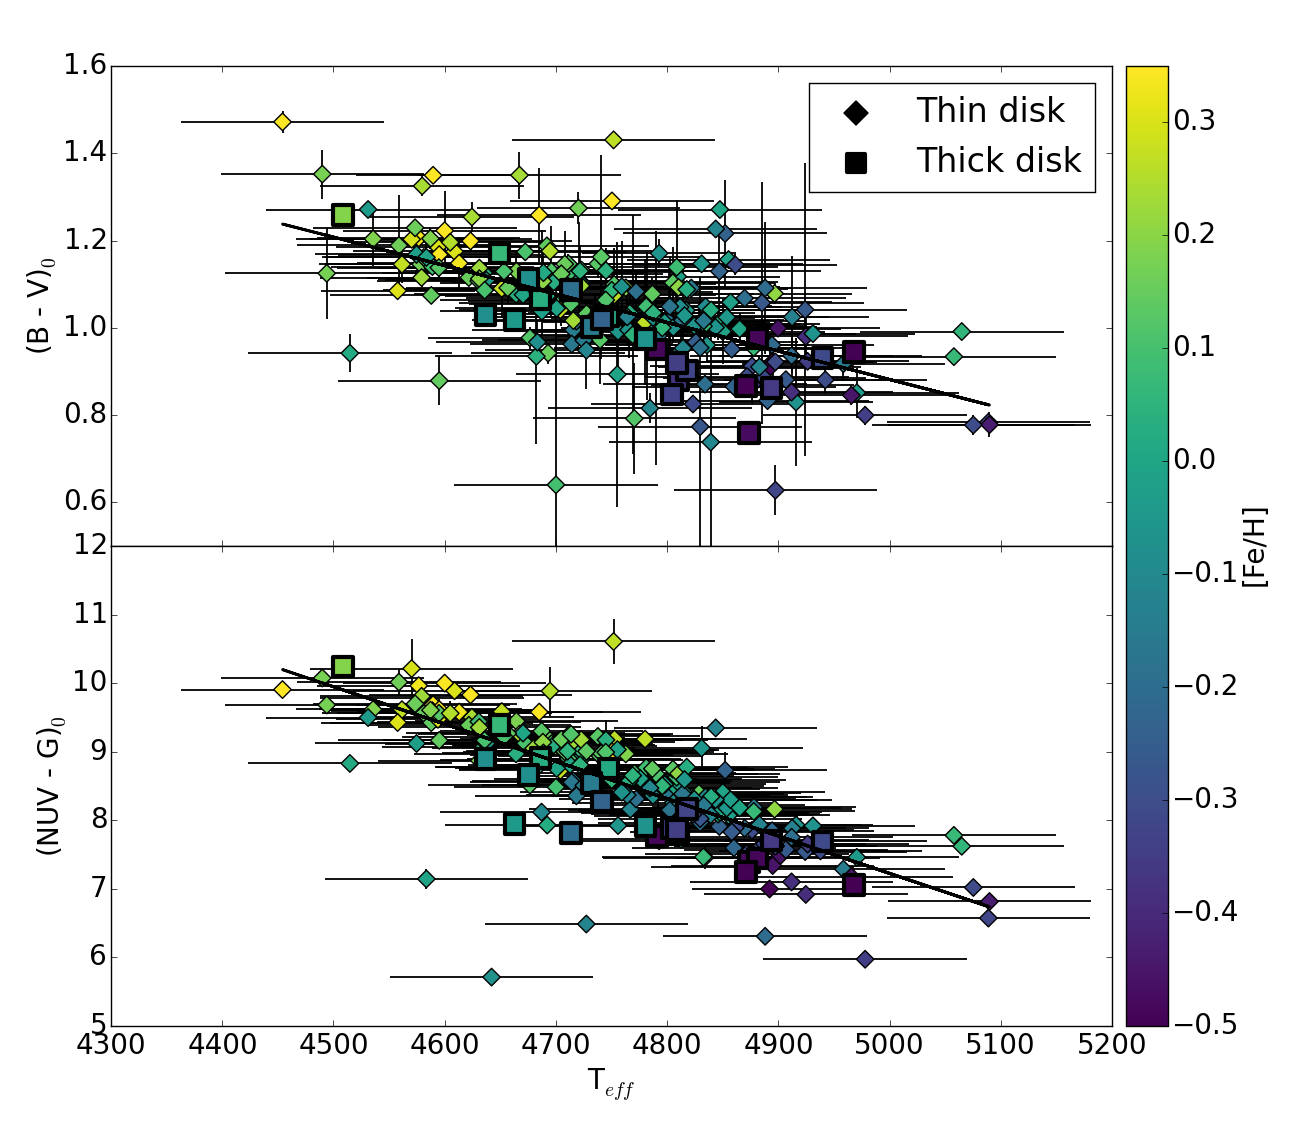
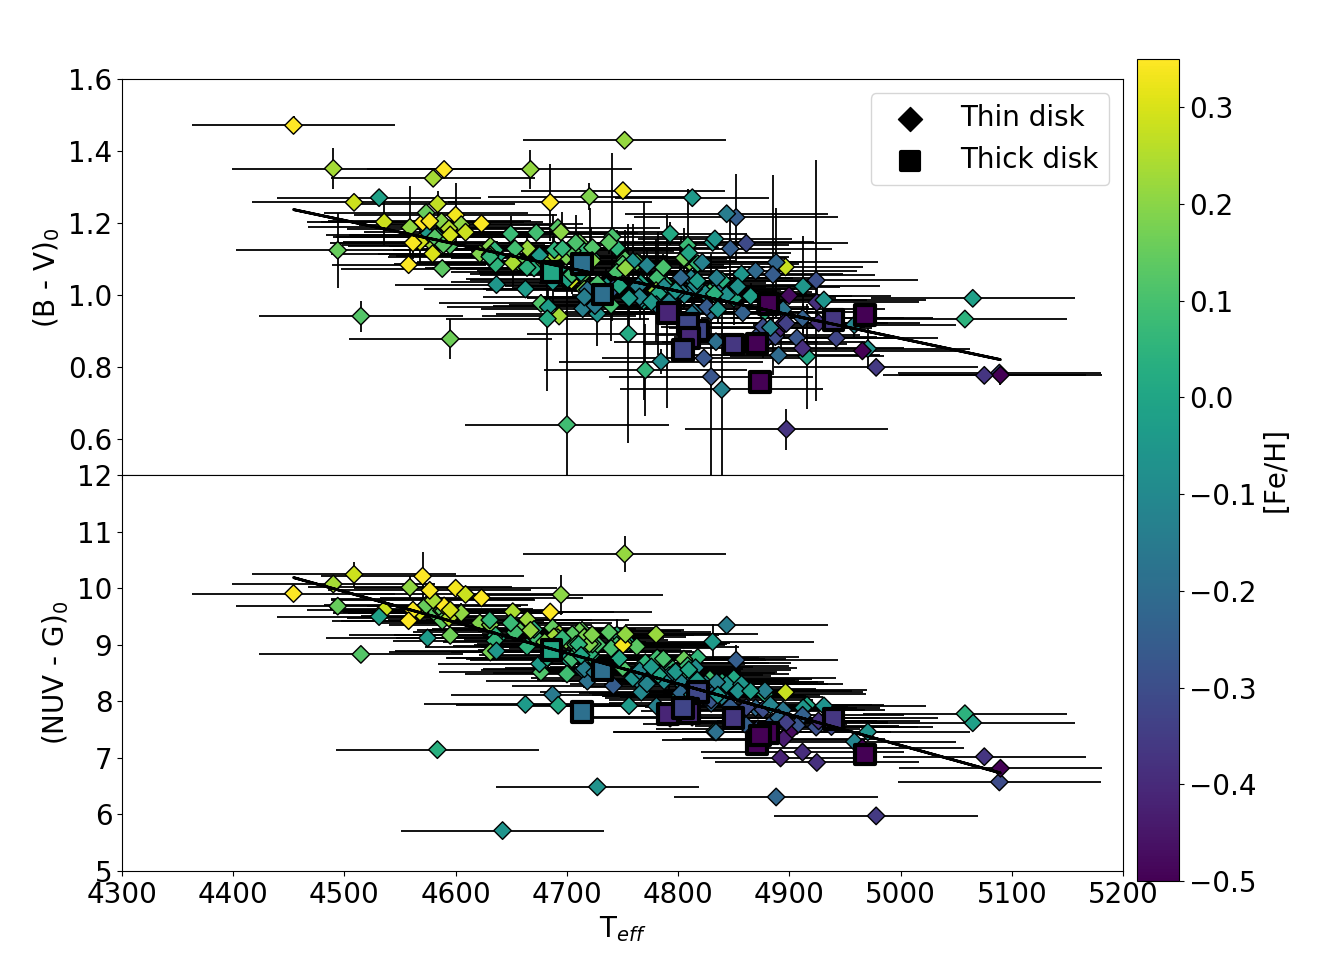
new plots new plots rest of 4panel plots:wq

diff --git a/pipeline/misc.py b/pipeline/misc.py
@@ -1748,14 +1748,14 @@ line2 = m2*x + b2
 err2 = np.sqrt(np.sum((line2-y2)**2/len(y2)))
 
 fig, (ax1, ax2) = plt.subplots(2, 1)
-cmap = ax1.scatter(rc['TEFF'][thin], ((rc['B_apass']-rc['ebv']*3.626)-(rc['V_apass']-rc['ebv']*2.742))[thin], s=80, c=rc['FE_H'][thin], cmap=viridis, vmin=-.5, vmax=.35, marker='D', label='Thin disk')
+cmap = ax1.scatter(rc['TEFF'][thin], ((rc['B_apass']-rc['ebv']*3.626)-(rc['V_apass']-rc['ebv']*2.742))[thin], s=80, c=rc['FE_H'][thin], cmap=viridis, vmin=-.5, vmax=.35, marker='D', label='Thin disk', edgecolor='black')
 ax1.scatter(rc['TEFF'][thick], ((rc['B_apass']-rc['ebv']*3.626)-(rc['V_apass']-rc['ebv']*2.742))[thick], s=200, c=rc['FE_H'][thick], cmap=viridis, vmin=-.5, vmax=.35, marker='s', label='Thick disk', edgecolor='black', linewidth=3)
 ax1.errorbar(rc['TEFF'][thin], ((rc['B_apass']-rc['ebv']*3.626)-(rc['V_apass']-rc['ebv']*2.742))[thin], xerr=rc['TEFF_ERR'][thin], yerr=(rc['Berr_apass']-rc['Verr_apass'])[thin], ecolor='black', fmt=None, marker=None, mew=0, elinewidth=1.3, **{"zorder":0})
 
 ax1.plot(x, line1, linewidth=2, c='black', zorder=10)
 
-ax2.scatter(rc['TEFF'][thin], ((rc['nuv_mag']-rc['ebv']*7.24)-(rc['phot_g_mean_mag']-rc['ebv']*3.303))[thin], s=80, c=rc['FE_H'][thin], cmap=viridis, vmin=-.5, vmax=.35, marker='D')
-ax2.scatter(rc['TEFF'][thick], ((rc['nuv_mag']-rc['ebv']*7.24)-(rc['phot_g_mean_mag']-rc['ebv']*3.303))[thick], s=200, c=rc['FE_H'][thick], cmap=viridis, vmin=-.5, vmax=.35, marker='s', linewidth=3)
+ax2.scatter(rc['TEFF'][thin], ((rc['nuv_mag']-rc['ebv']*7.24)-(rc['phot_g_mean_mag']-rc['ebv']*3.303))[thin], s=80, c=rc['FE_H'][thin], cmap=viridis, vmin=-.5, vmax=.35, marker='D', edgecolor='black')
+ax2.scatter(rc['TEFF'][thick], ((rc['nuv_mag']-rc['ebv']*7.24)-(rc['phot_g_mean_mag']-rc['ebv']*3.303))[thick], s=200, c=rc['FE_H'][thick], cmap=viridis, vmin=-.5, vmax=.35, marker='s', edgecolor='black', linewidth=3)
 ax2.errorbar(rc['TEFF'][thin], ((rc['nuv_mag']-rc['ebv']*7.24)-(rc['phot_g_mean_mag']-rc['ebv']*3.303))[thin], xerr=rc['TEFF_ERR'][thin], yerr=(rc['nuv_magerr']-rc['Gerr'])[thin], ecolor='black', fmt=None, marker=None, mew=0, elinewidth=1.3, **{"zorder":0})
 
 ax2.plot(x, line2, linewidth=2, c='black', zorder=10)
@@ -1961,14 +1961,14 @@ leg.legendHandles[1]._sizes = [150]
 fig.subplots_adjust(wspace=0)
 fig.subplots_adjust(right=.84)
 cbar_ax = fig.add_axes([0.85, 0.1, 0.03, 0.8])
-ax1.annotate('[Fe/H] = 0.17 * (NUV-G) - 1.55', xy=(5.1, 0.43), color='red', size=15)
-ax1.annotate('[Fe/H] = 0.18 * (NUV-G) - 1.63 ', xy=(5.1, 0.47), color='black', size=15)
-ax2.annotate('[Fe/H] = 0.20 * (NUV-G)$_0$ - 1.75', xy=(5.1, 0.43), color='red', size=15)
-ax2.annotate('[Fe/H] = 0.23 * (NUV-G)$_0$ - 1.99', xy=(5.1, 0.47), color='black', size=15)
+ax1.annotate('[Fe/H] = 0.18 * (NUV-G) - 1.61', xy=(5.1, 0.43), color='red', size=15)
+ax1.annotate('[Fe/H] = 0.19 * (NUV-G) - 1.70 ', xy=(5.1, 0.47), color='black', size=15)
+ax2.annotate('[Fe/H] = 0.21 * (NUV-G)$_0$ - 1.80', xy=(5.1, 0.43), color='red', size=15)
+ax2.annotate('[Fe/H] = 0.24 * (NUV-G)$_0$ - 2.06', xy=(5.1, 0.47), color='black', size=15)
 
 ax1.annotate('$\sigma$ = 0.11', xy=(5.1, 0.35), color='red', size=15) # a1
 ax1.annotate('$\sigma$ = 0.12', xy=(5.1, 0.39), color='black', size=15) # a2
-ax2.annotate('$\sigma$ = 0.09', xy=(5.1, 0.35), color='red', size=15) # b1
+ax2.annotate('$\sigma$ = 0.10', xy=(5.1, 0.35), color='red', size=15) # b1
 ax2.annotate('$\sigma$ = 0.10', xy=(5.1, 0.39), color='black', size=15) # b2
 
 fig.colorbar(cmap, cax=cbar_ax).set_label(r'[$\alpha$/Fe]')
